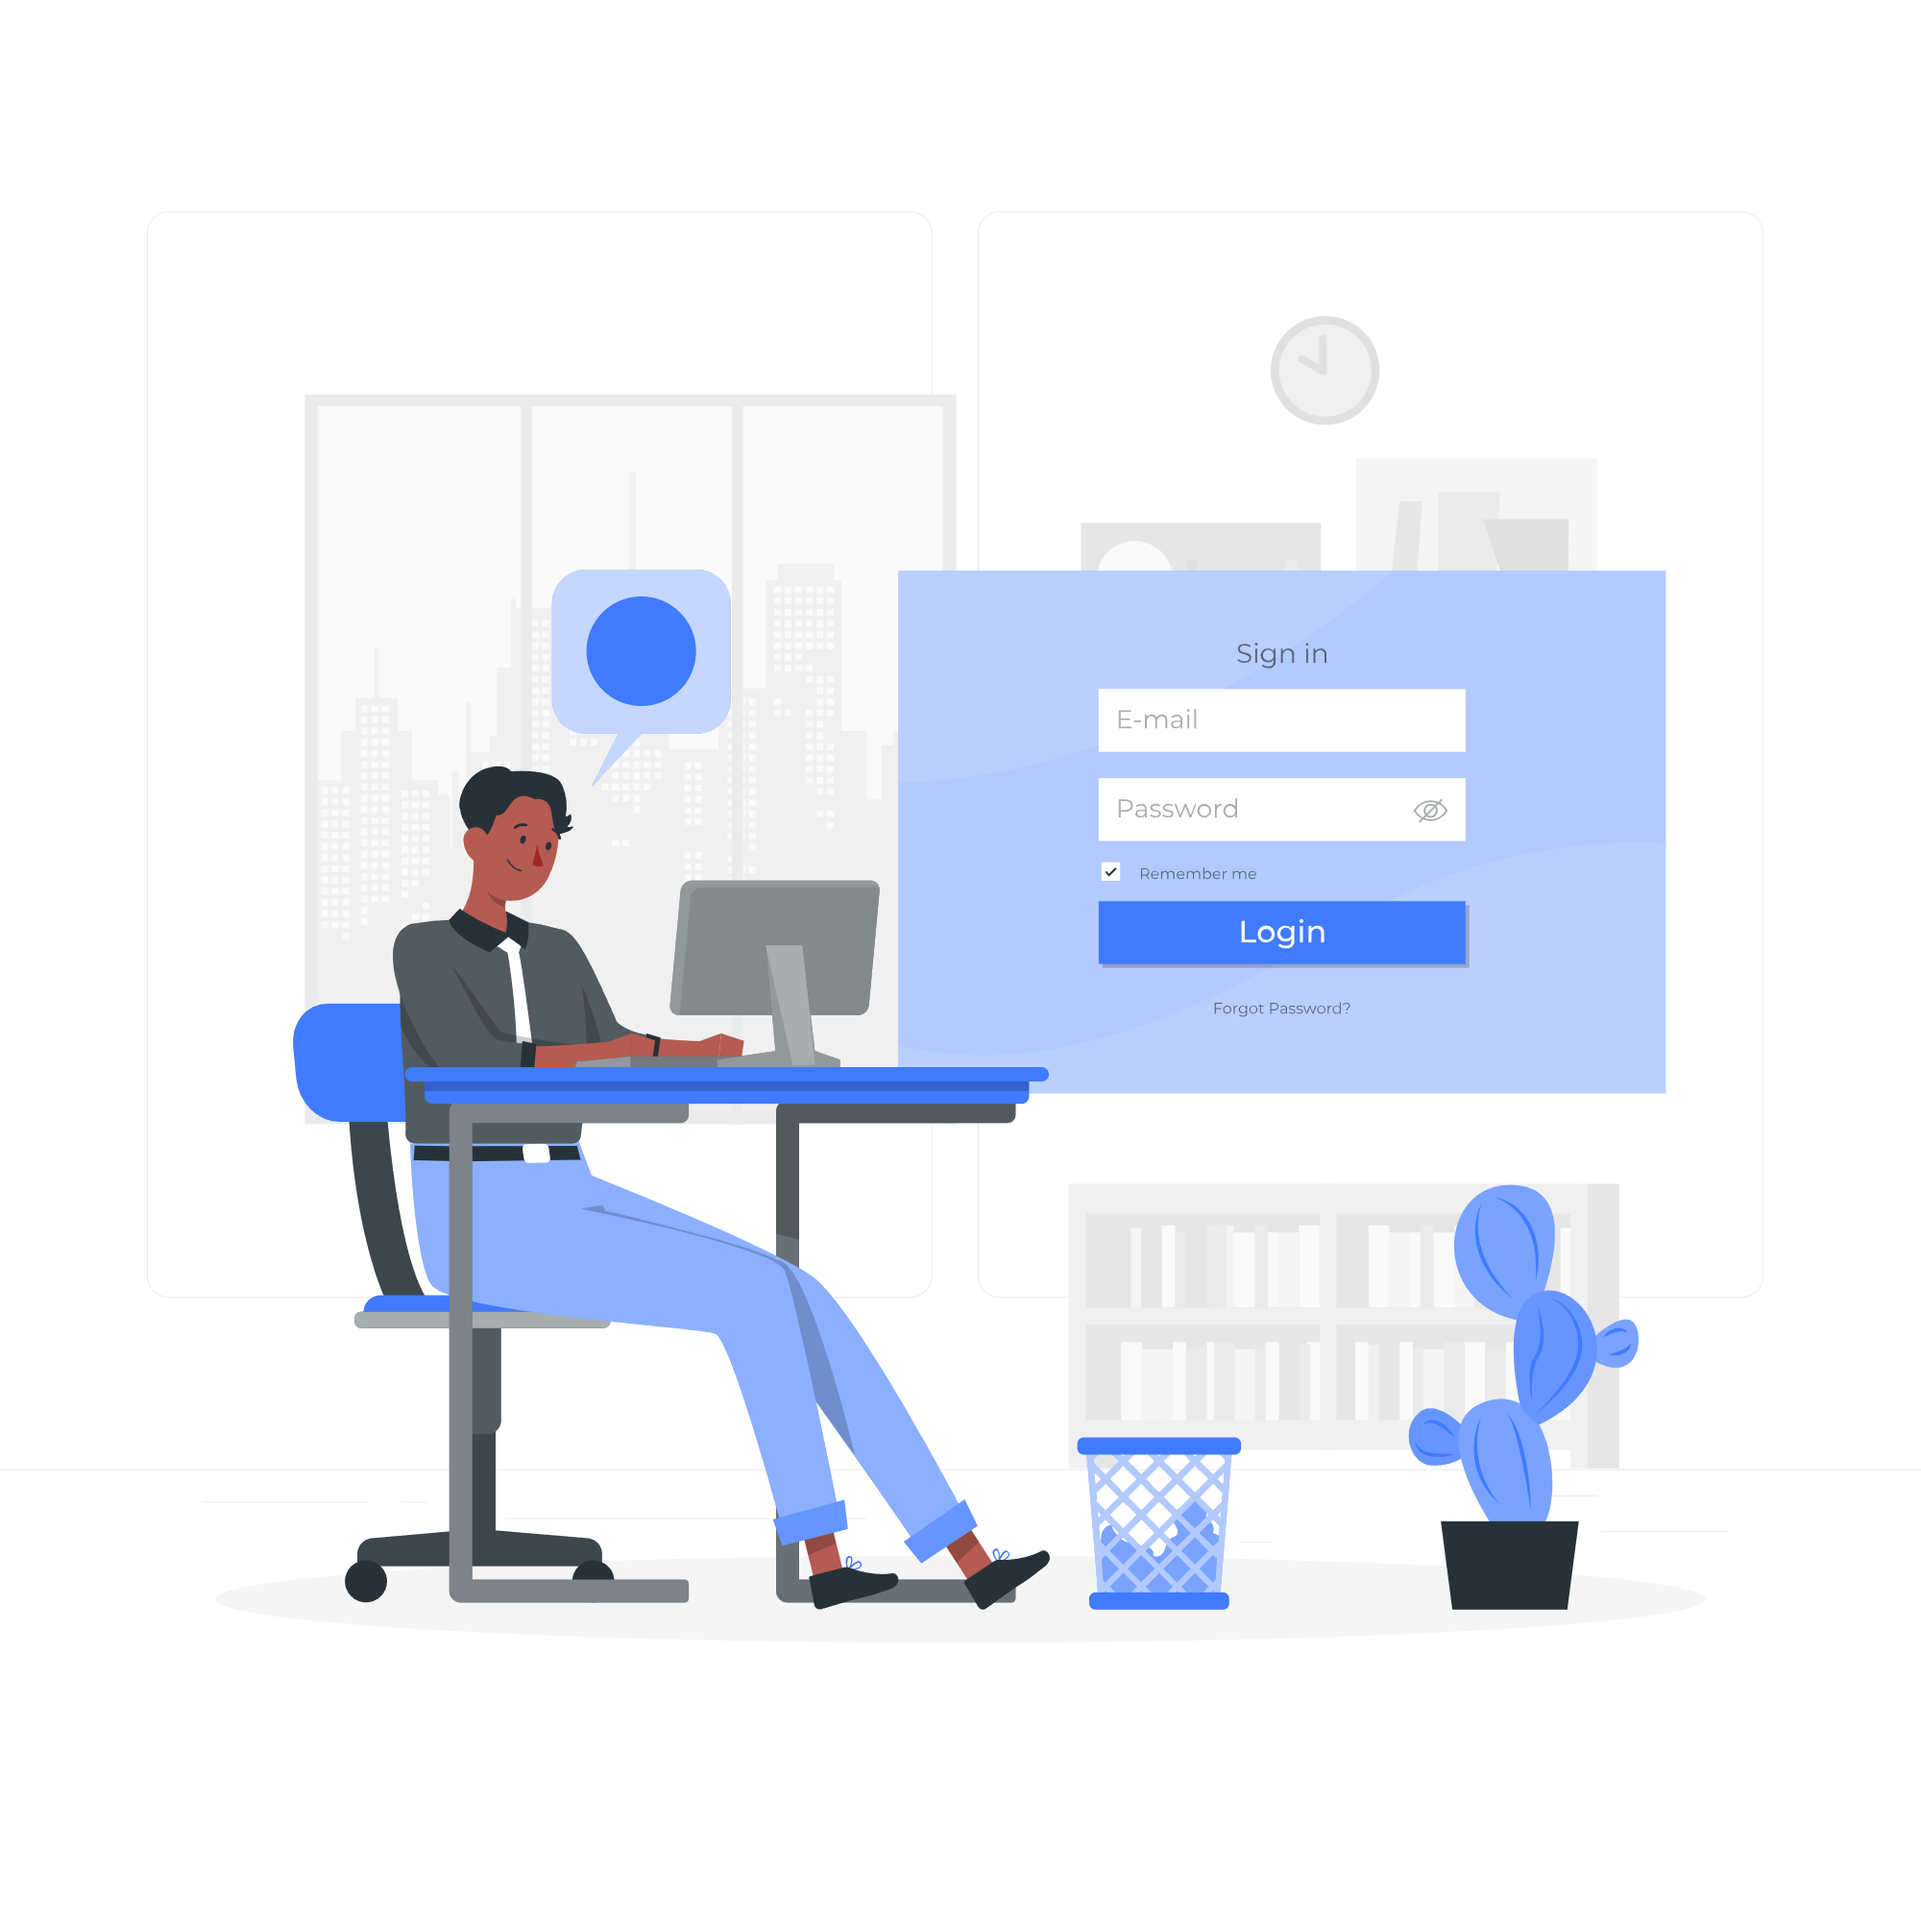
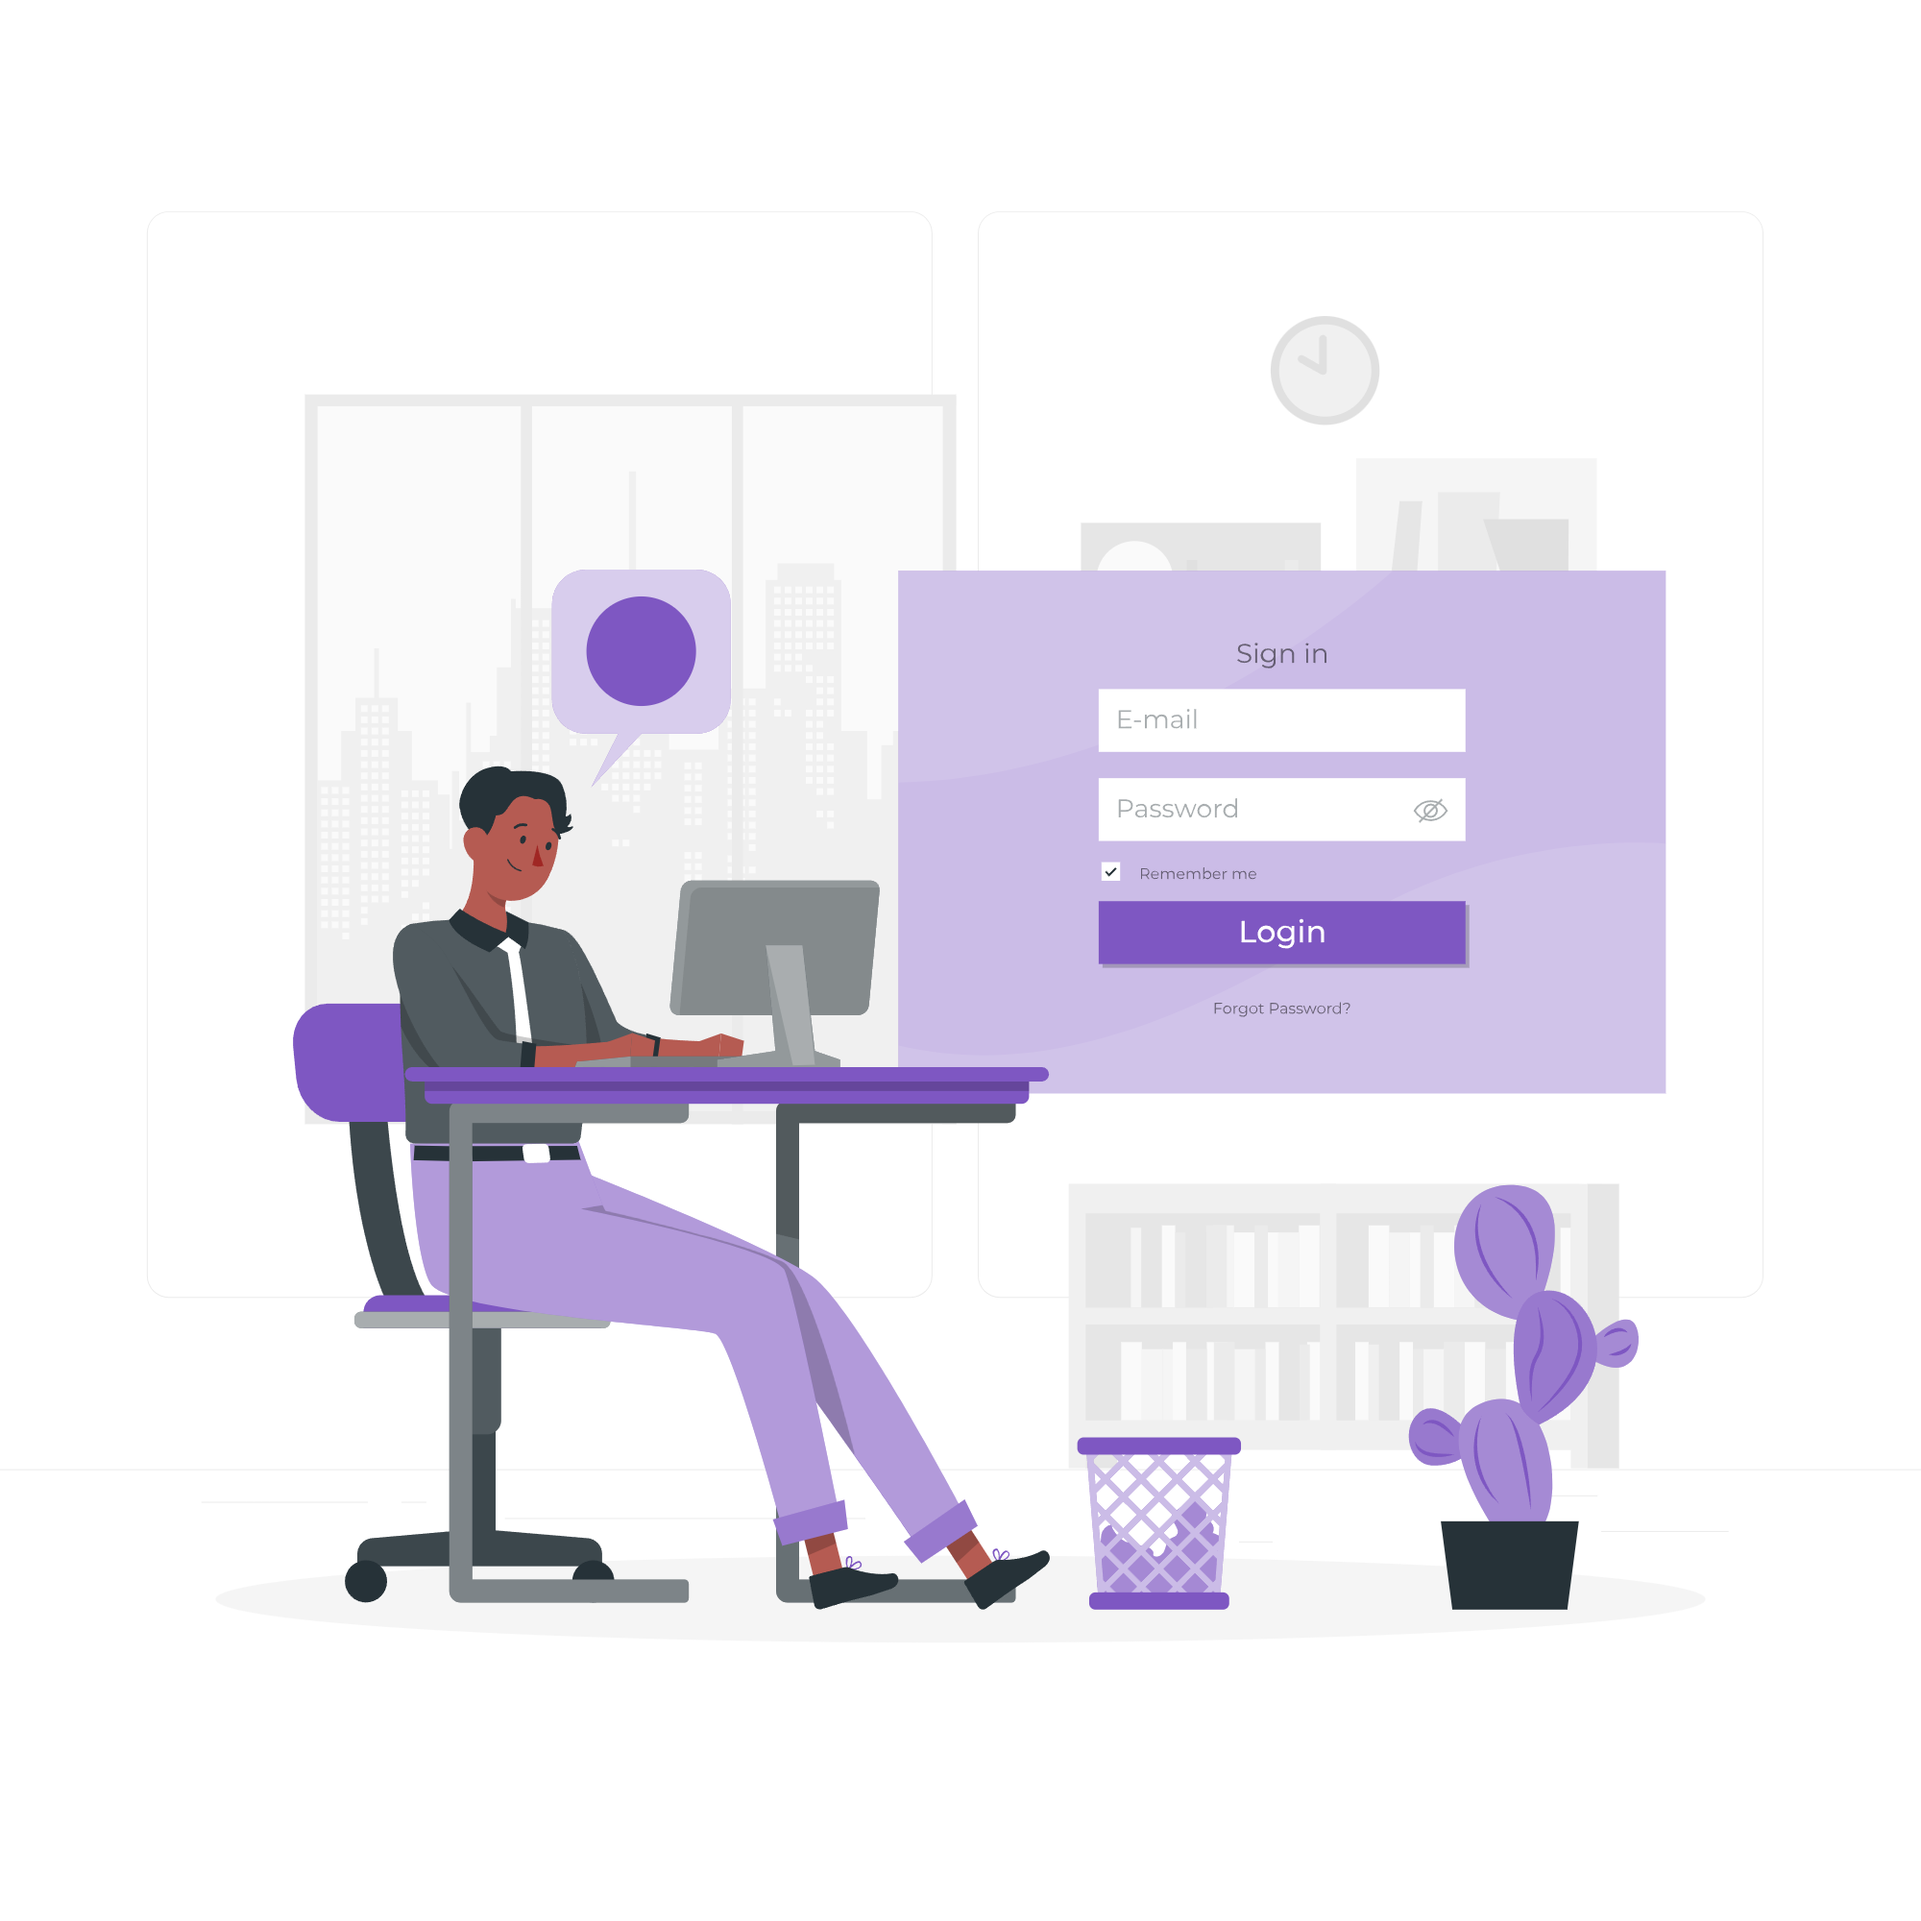
✨ feat: created root to pallet of colors and add new theme

diff --git a/src/app/domain/auth/page/auth/auth.component.scss b/src/app/domain/auth/page/auth/auth.component.scss
@@ -5,11 +5,7 @@
   padding: 10px;
   min-height: calc(100vh - 20px);
   gap: 10px;
-  background: linear-gradient(
-    100deg,
-    rgba(201, 218, 255, 1) 15%,
-    rgba(245, 247, 246, 1) 100%
-  );
+  background: linear-gradient(to right, var(--primary-100), var(--primary-200));
   .login {
     mat-card-content {
       margin-top: 100px;
@@ -35,6 +31,7 @@
         height: 180px;
         bottom: -50px;
         left: 30%;
+        filter: hue-rotate(400deg);
       }
     }
     [mat-card-image] {

diff --git a/src/styles.scss b/src/styles.scss
@@ -1,4 +1,19 @@
 @import "app/shared/scss/reset.scss";
+
+:root {
+  --primary: #673ab7;
+  --primary-50: #ede7f6;
+  --primary-100: #d1c4e9;
+  --primary-200: #b39ddb;
+  --primary-300: #9575cd;
+  --primary-400: #7e57c2;
+  --primary-500: #673ab7;
+  --primary-600: #5e35b1;
+  --primary-700: #512da8;
+  --primary-800: #4527a0;
+  --primary-900: #311b92;
+}
+
 html,
 body {
   height: 100%;
